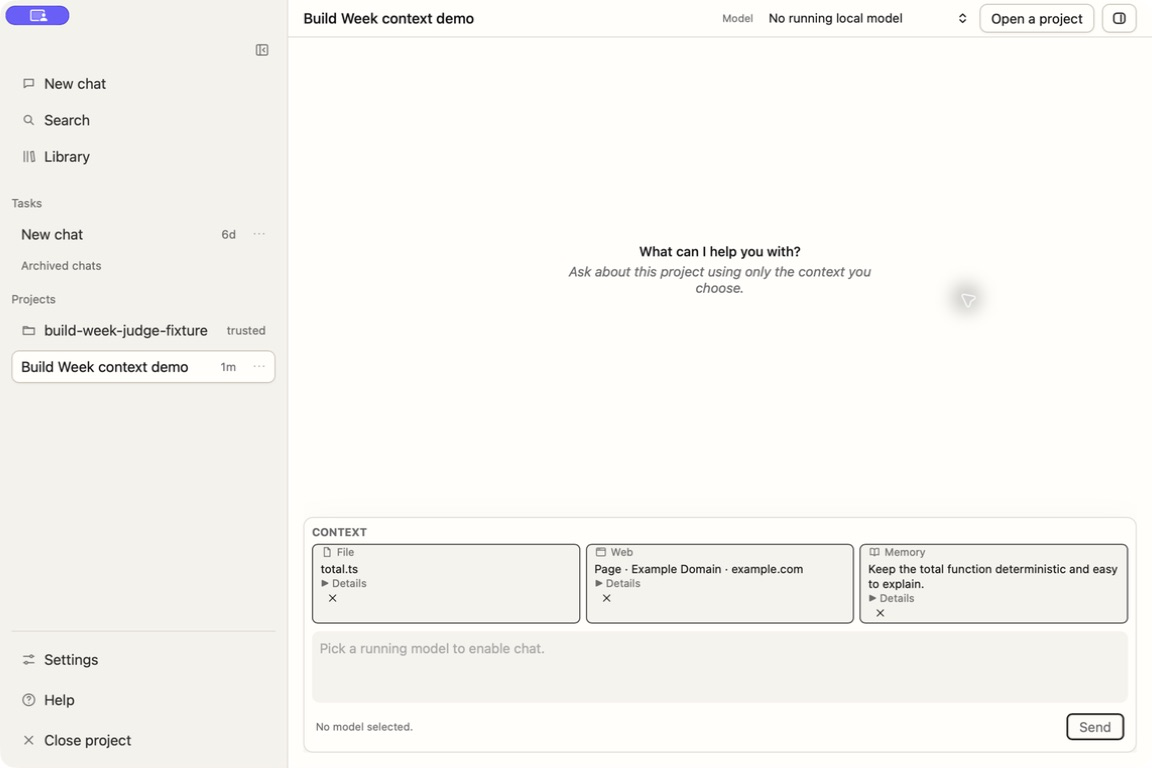
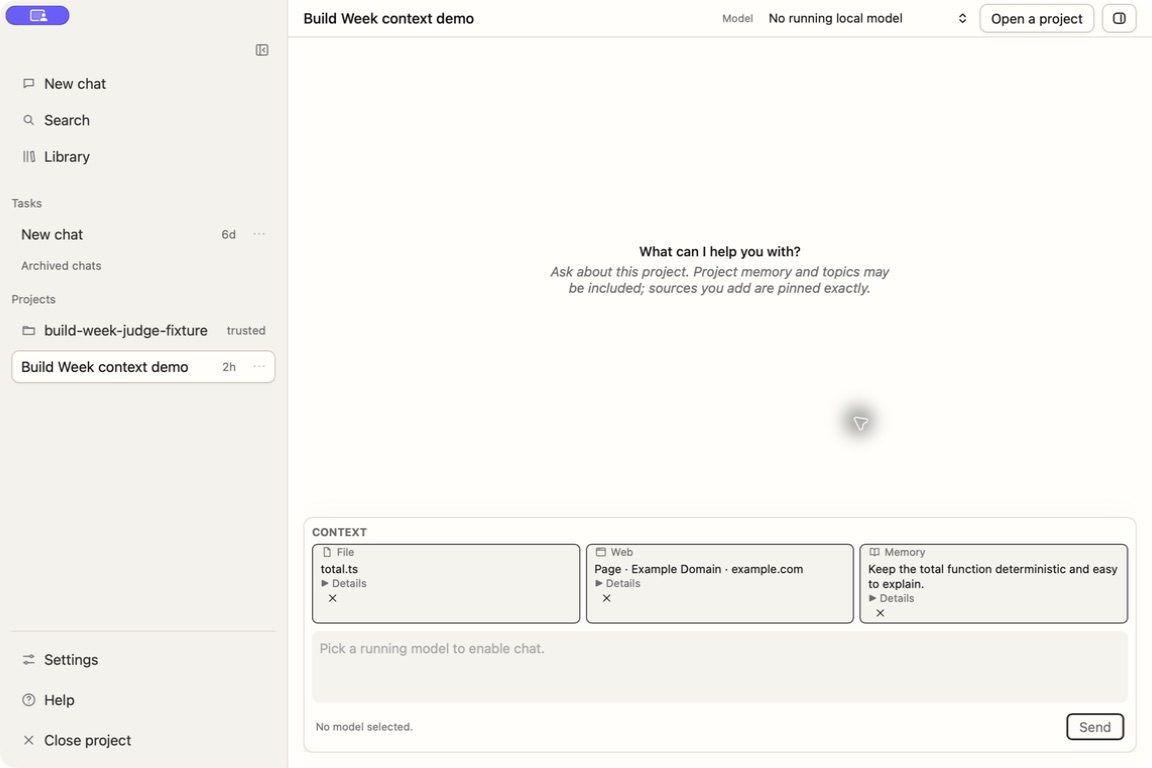
Refresh Build Week submission evidence

Changed region(s): [[0.4688, 0.3438, 0.7812, 0.4062], [0.7188, 0.5312, 0.7812, 0.5938], [0.8125, 0.375, 0.875, 0.4062]]

diff --git a/README.md b/README.md
@@ -33,6 +33,16 @@ script. The release app can demonstrate project trust, explicit file and web
 context, Library memory, and restoration without downloading a model. Chat and
 file-change generation require an existing supported local model.
 
+Codex with **GPT-5.6 Sol** was used as Plume's development and review agent
+during the qualifying Build Week work; it is build provenance, not a runtime
+GPT-5.6 integration. Codex accelerated implementation, testing, and packaged
+app review while supporting key product, engineering, and design decisions:
+opaque typed context references with exact manifests, human-controlled Browser
+evidence, scope-aware Library and persistence, local-runtime lifecycle and
+streaming hardening, and the judge-facing composer/context-shelf cleanup. The
+[eligibility evidence](docs/build-week/eligibility-evidence.md) separates this
+qualifying work from the editor foundation that predates the event.
+
 The current candidate is ad-hoc signed rather than Apple Developer ID signed
 and notarized, so macOS may require **Privacy & Security → Open Anyway**. The
 repository does not currently contain a public binary download; the final DMG

diff --git a/docs/build-week/audit/README.md b/docs/build-week/audit/README.md
@@ -16,6 +16,10 @@ Apply/Revert safety boundary. Context sources now use a stacked label/name/
 details hierarchy, put long evidence previews behind **Details**, and stack
 cleanly in Browser split.
 
+The accepted screenshots below were recaptured from the packaged app built at
+durable artifact-source commit `2a3520e`. They visibly distinguish bounded
+ambient project memory/topics from sources the user pins exactly.
+
 ## Evidence
 
 Before:
